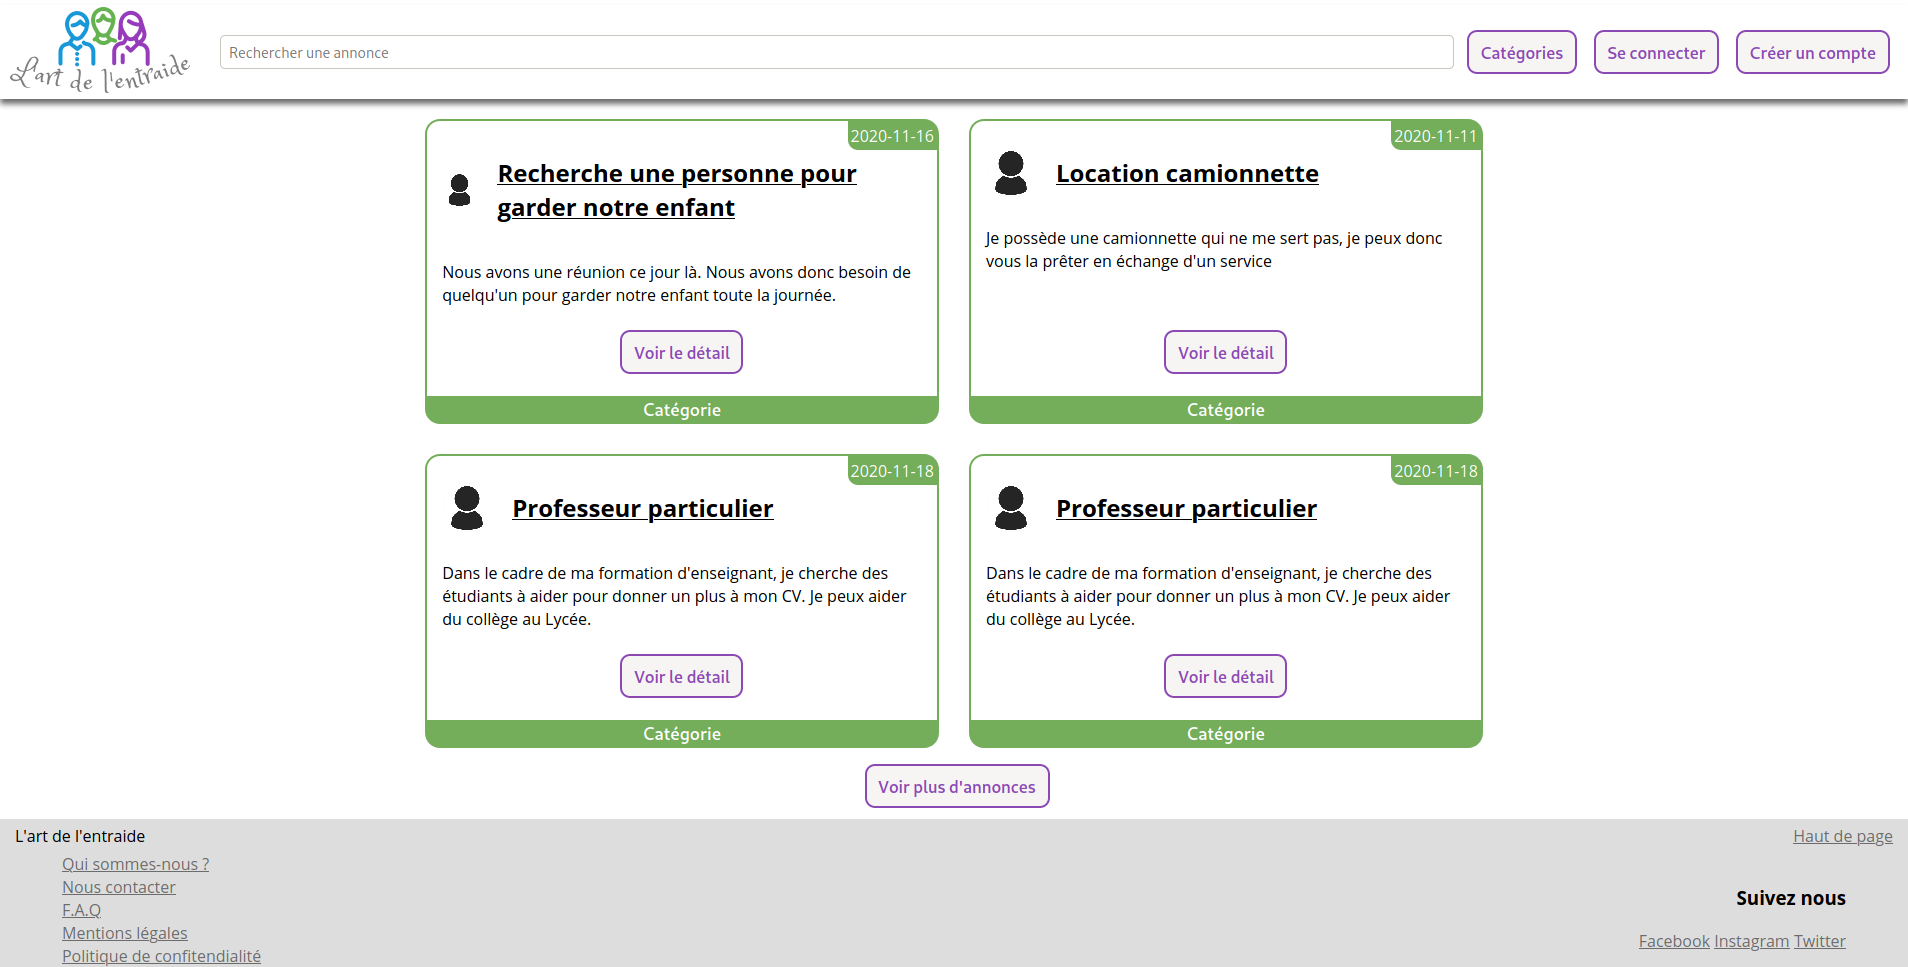
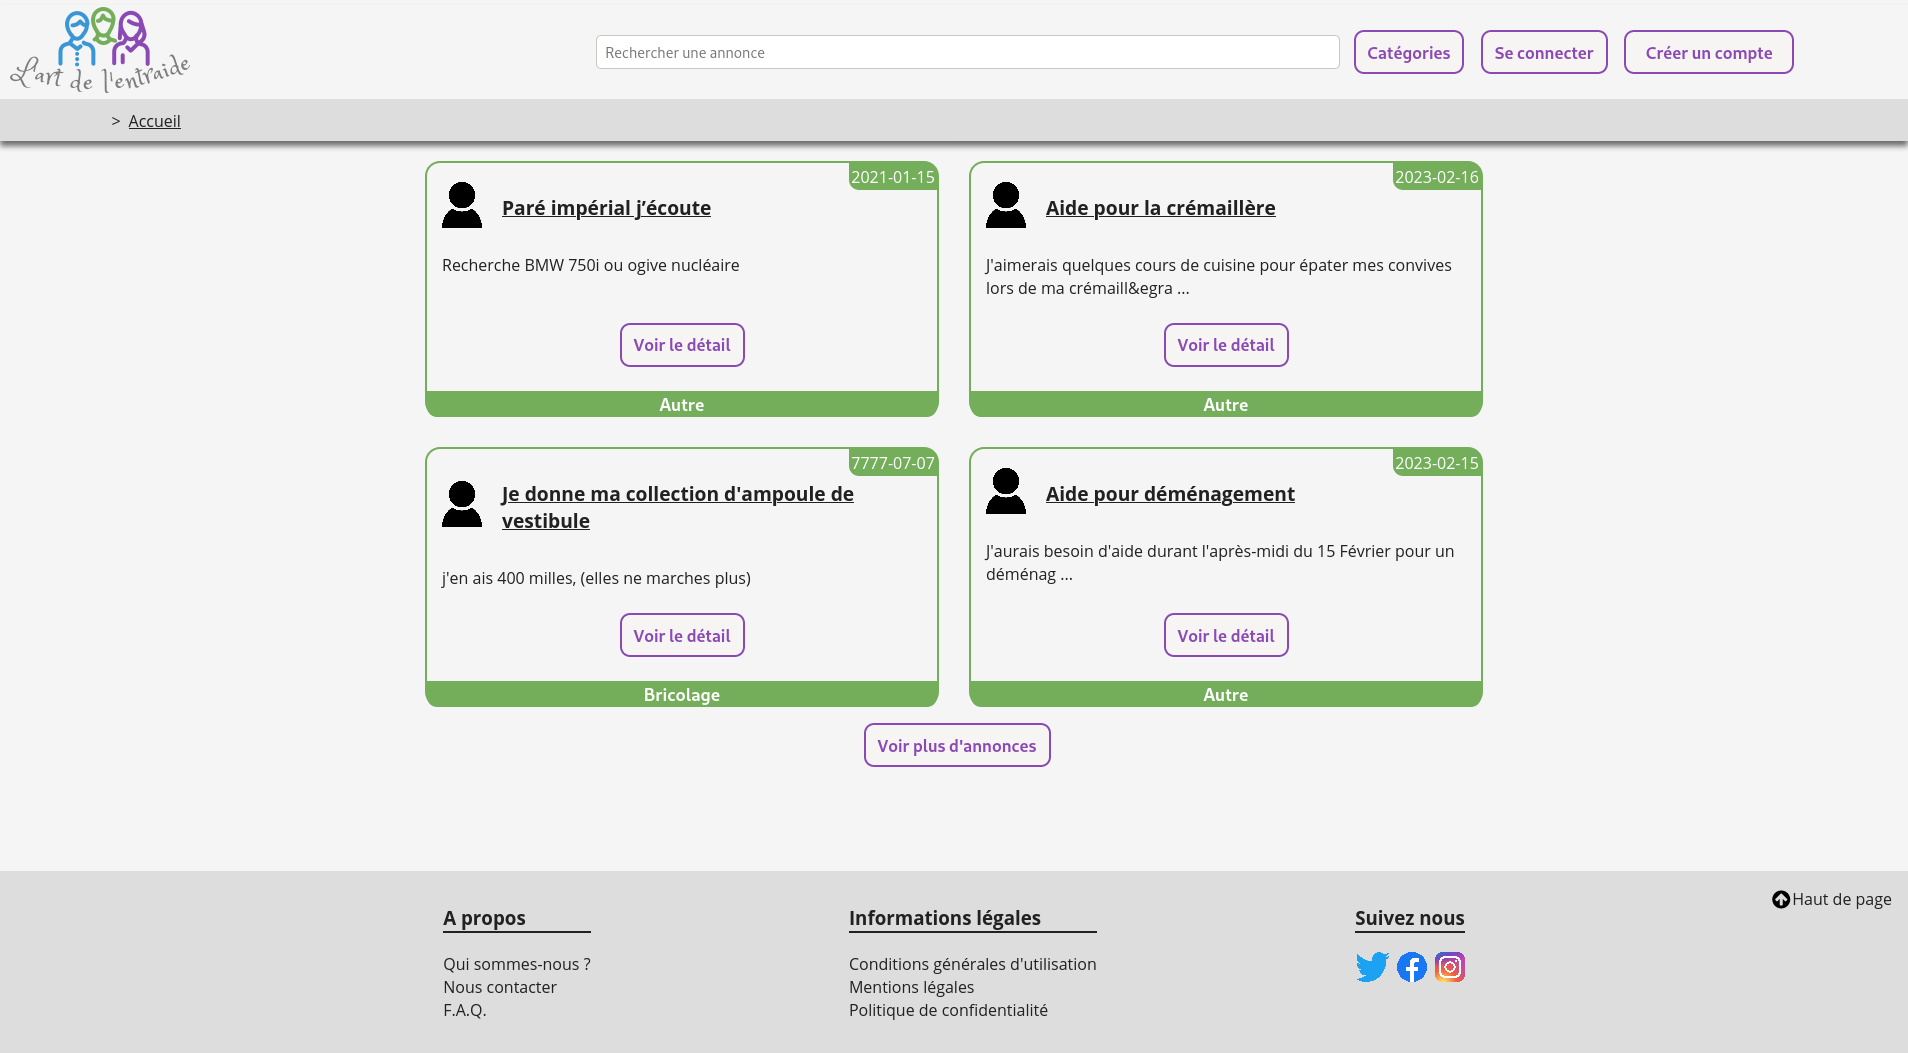
Corrections rapport ergo

diff --git a/rapport/rapport.tex b/rapport/rapport.tex
@@ -349,7 +349,9 @@ possible, en suivant notamment les critères ergonomiques de Bastien et Scapin.\
 
 Pour faciliter l'utilisation du site aux utilisateurs et éviter qu'ils ne se retrouvent perdus, ils sera important dans le design des pages du site, de s'assurer de bien disposer les informations essentielles au centre et en haut de la page, afin que ce soit la première chose que l'utilisateur voie sans avoir besoin de \textit{scroller}.\\
 
-Il est important que l'utilisateur n'ait pas à se demander ce que l'on attend de lui, dès l'instant où il pose ses yeux sur la page, ce qu'il doit faire est clair.
+Il est important que l'utilisateur n'ait pas à se demander ce que l'on attend de lui, dès l'instant où il pose ses yeux sur la page, ce qu'il doit faire est clair.\\
+
+\textbf{Adaptabilité}\\
 
 Les textes devront être adaptés à l’utilisateur, par exemple si ce dernier a des problèmes de vue.
 
@@ -460,9 +462,11 @@ Les principaux critères ergonomiques auxquels notre IHM va se conformer sont :\
   services. Les éléments cliquables auront également des infobulles au survol qui préciseront leur fonction.
   \item Le \textbf{contrôle explicite} : la suppression des offres de service sera protégée par une double
   demande, et la mise en relation sera explicite afin de protéger les utilisateurs.
-  \item La \textbf{prévention des erreurs} : un contrôle local sera mis au niveau de chaque champ pour vérifier que
+  La navigation dans le site sera améliorée grâce à un fil d'Ariane.
+  \item La \textbf{prévention des erreurs} : Pour tous les champs qui s'y prêtent, la saisie se fera par menu déroulant, boutons radio ou cases à cocher plutôt que par champ texte libre pour limiter les risques d'erreur de saisie.
+  \item La \textbf{correction des erreurs} : Un contrôle local sera mis au niveau de chaque champ pour vérifier que
   les données entrées par l'utilisateur sont conformes (format email, tel ...) avec un sticker \textit{check} vert
-  dès que le champ est valide. Pour tous les champs qui s'y prêtent, la saisie se fera par menu déroulant, boutons radio ou cases à cocher plutôt que par champ texte libre pour limiter les risques d'erreur de saisie.
+  dès que le champ est valide. 
   \item La \textbf{gestion des erreurs} : un pop-up sera mis en place pour permettre un guidage des
   utilisateurs en cas d’erreur de saisie et en particulier pour aider les personnes âgées.
   \item La \textbf{charge de travail} : la création des offres se fera avec un formulaire, afin de limiter les étapes
@@ -473,7 +477,8 @@ Les principaux critères ergonomiques auxquels notre IHM va se conformer sont :\
   \item La \textbf{cohérence interne} : chaque page sera la plus similaire possible aux autres pour faciliter
   l'apprentissage du site et ne pas se sentir perdu.
   \item La \textbf{flexibilité} : pour faciliter l'utilisation du site, il y aura souvent plusieurs actions possibles
-  pour arriver à faire la même chose.
+  pour arriver à faire la même chose. Par exemple l'utilisateur pourra rechercher une annonce à la fois depuis
+  la page prévue à cet effet, mais aussi depuis n'importe quelle page depuis le bandeau de haut de page.
   \item L'\textbf{adaptabilité} : compte tenu du public visé, nous allons mettre en place un mode spécifique
   pour les personnes malvoyantes, activant une adaptation de taille et contraste de police pour
   une meilleure accessibilité.
@@ -502,7 +507,11 @@ mais il pourra aussi retourner à la page d'accueil à tout moment en cliquant s
 Le design du site se veut le plus simple et épuré possible tout en gardant un bon guidage. Il se
 rapprocherait du flat ou material design.
 
-\pagebreak
+\begin{figure}[H]
+  \includegraphics[width=\linewidth]{images/page-accueil.png}
+  \caption{Page d'accueil}
+  \label{fig:page-accueil}
+\end{figure}
 
 \subsubsection{Conception logicielle}
 \paragraph{MVC}\mbox{} \\
